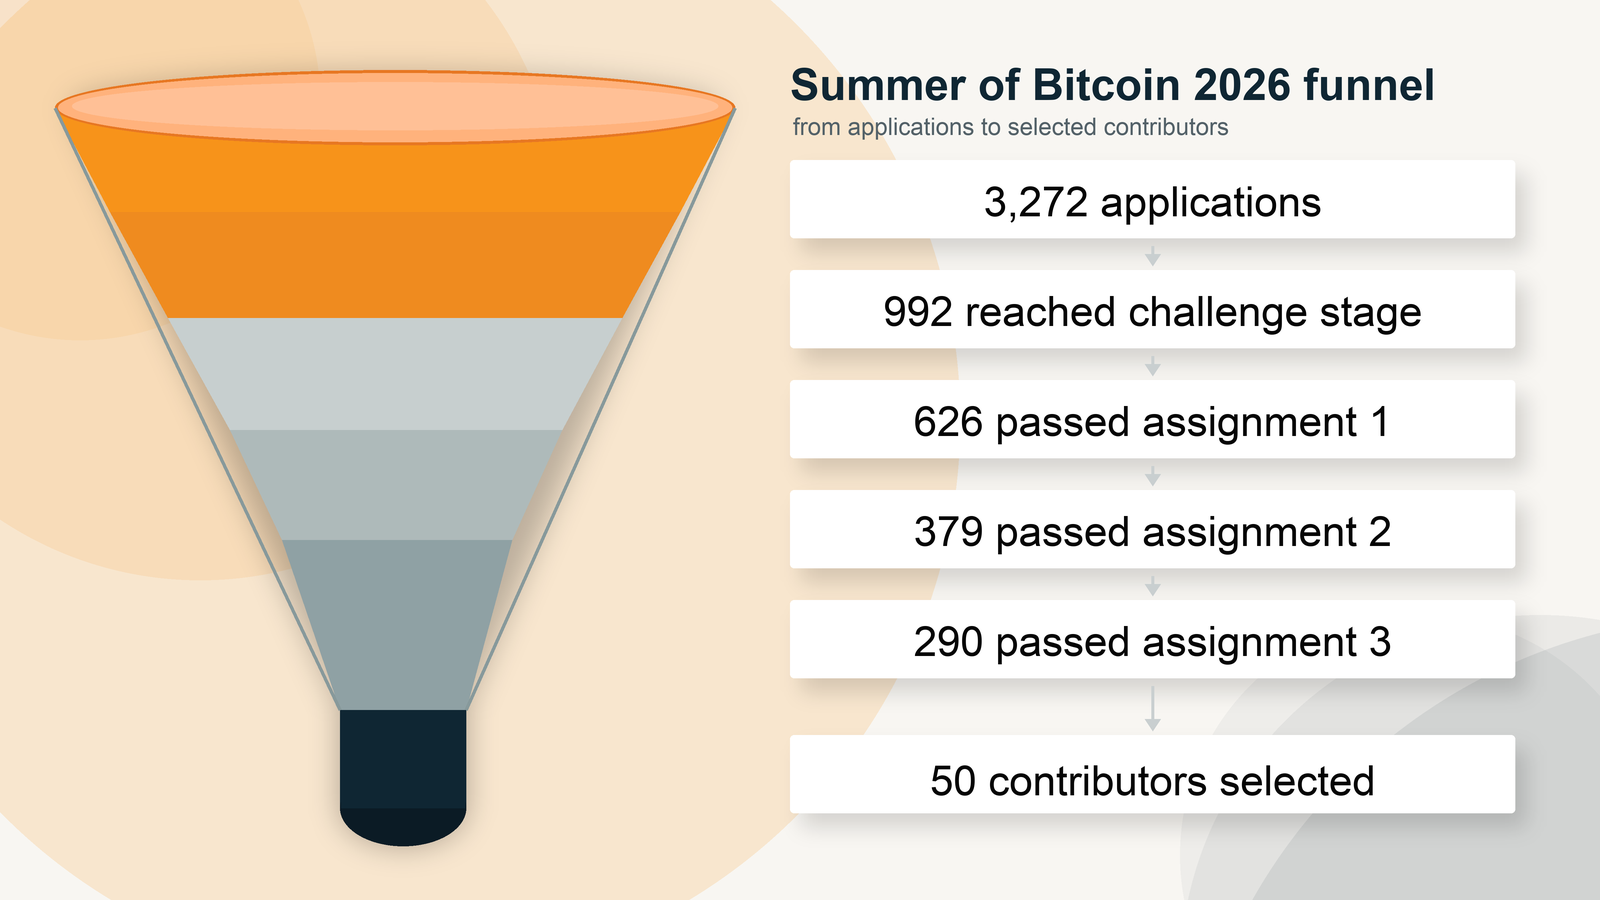
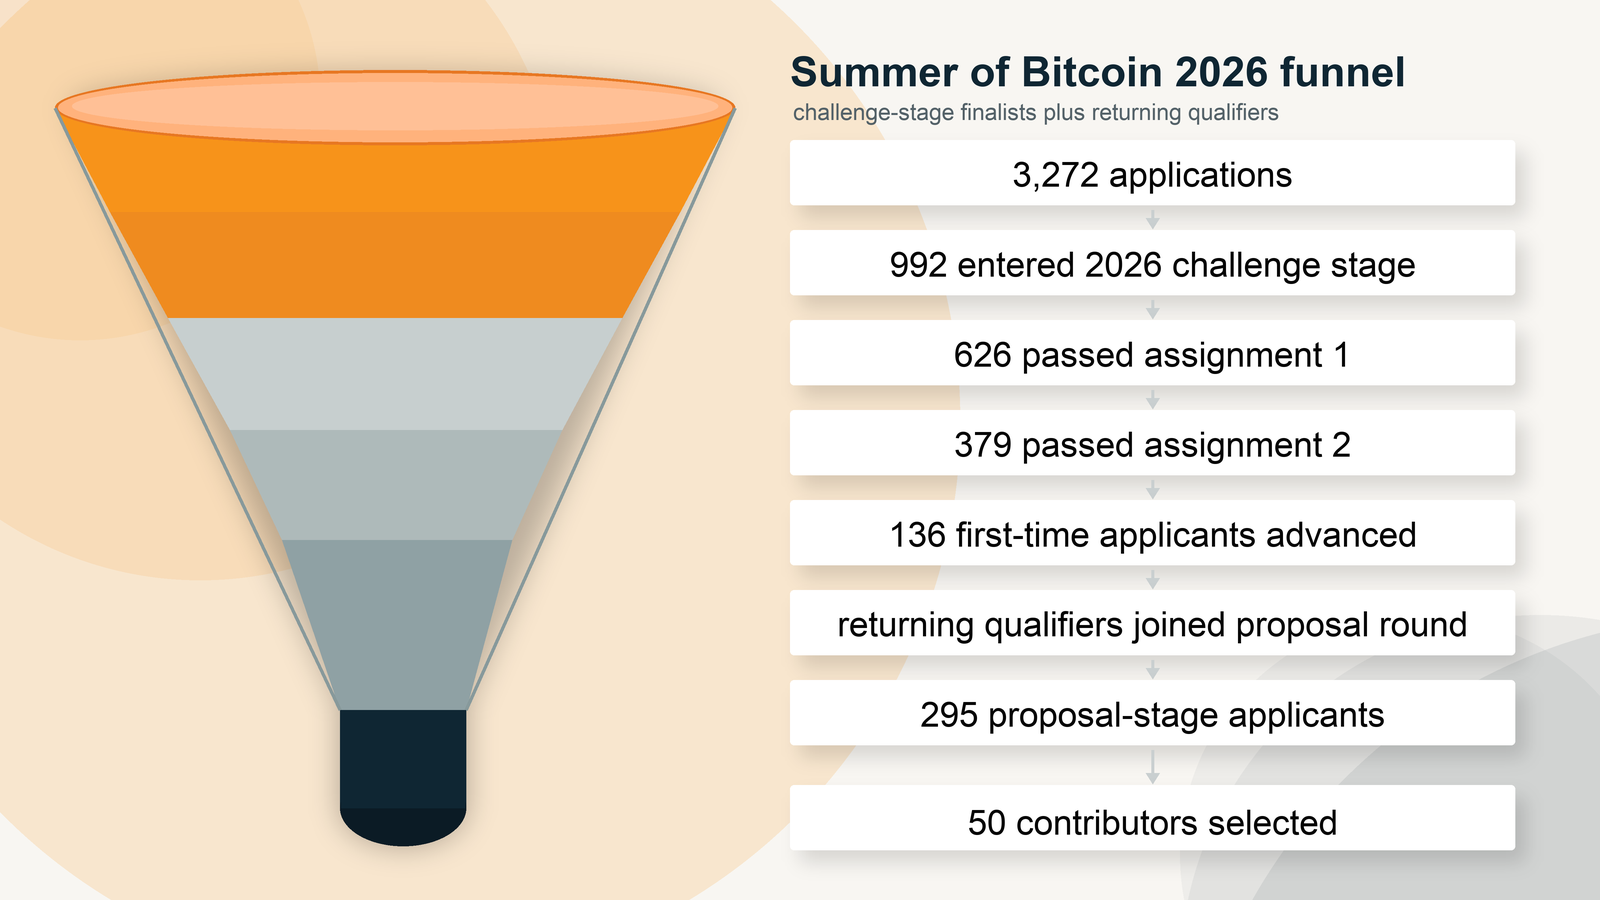
Refine proposal funnel summary

Changed region(s): [[0.4688, 0.0622, 0.9688, 0.9644]]

diff --git a/_posts/2026-06-02-summer-of-bitcoin-2026-announcing-the-next-generation-of-bitcoin-builders.md b/_posts/2026-06-02-summer-of-bitcoin-2026-announcing-the-next-generation-of-bitcoin-builders.md
@@ -25,14 +25,18 @@ For design applicants, the challenge round moved from first-time bitcoin wallet 
 
 These were not toy problems. Some of the best submissions were technically rigorous and creative enough to be useful to non-technical users on day one. As one example from the chain-analysis challenge, a student from India built and demoed a polished visual analysis tool: [watch the walkthrough](https://www.youtube.com/watch?v=OcI5FrvTMRY).
 
+One important nuance: the proposal round was broader than the assignment funnel alone. Returning applicants who had already qualified for the proposal round in previous years were eligible to submit proposals without repeating the challenge stage. The current proposal pool combined 136 first-time applicants who advanced through this year's challenge round, 154 returning applicants who were already eligible from prior years, and a small number of additional eligible applicants.
+
 Here is what the funnel looked like:
 
 *   3,272 applicants from 51 countries and 1,813 universities
 *   992 students reached the screening and challenge stage
 *   626 students passed assignment 1
 *   379 students passed assignment 2
-*   290 students passed assignment 3
-*   294 applicants reached the proposal stage, with 379 proposal records reviewed
+*   136 first-time applicants advanced from this year's final challenge stage
+*   154 returning applicants were already eligible for the proposal round from prior years
+*   A small number of additional eligible applicants completed the proposal pool
+*   295 applicants reached the proposal stage, with 379 proposal records reviewed
 *   50 student contributors selected across 26 open-source bitcoin organizations
 *   44 developer placements and 6 designer placements
 
@@ -41,38 +45,9 @@ Here is what the funnel looked like:
 <figcaption>Summer of Bitcoin 2026 narrowed 3,272 applications into 50 selected contributors through a multi-week challenge and proposal process</figcaption>
 </figure>
 
-The selected cohort represents 7 countries: India (42), Spain (2), the United States (2), Australia (1), Costa Rica (1), Germany (1), and Nigeria (1). Contributors will work on bitcoin protocol infrastructure, wallets, developer tooling, privacy, testing, mining, bitcoin applications, and design projects. This year's project ideas were scoped with mentors for a 12-week full-time summer window, so students can move from onboarding to meaningful public work in code, design, research, and documentation.
+The selected cohort represents 7 countries: Australia, Costa Rica, Germany, India, Nigeria, Spain, and the United States. Contributors will work on bitcoin protocol infrastructure, wallets, developer tooling, privacy, testing, mining, bitcoin applications, and design projects. This year's project ideas were scoped with mentors for a 12-week full-time summer window, so students can move from onboarding to meaningful public work in code, design, research, and documentation.
 
-This year's participating organizations and selected contributors are:
-
-| Organization | Selected contributors |
-|---|---|
-| asmap | Joris Strakeljahn |
-| BDK | Domènec Madrid, Rishit Modi |
-| Bitcoin Core | Biel Castellarnau |
-| Bitcoin Design | Aditya Sarna |
-| Bitcoin-Fuzz | Suryansh Singh |
-| Braidpool | Kushagra Kinra, Parth, Priya Rani, Rasesh Shetty |
-| Coinswap | Tanishka Nibariya, Yogansh Sharma |
-| ContextVM | Abhay, Harsh Kumar Chandwani, Khushvendra Singh |
-| Cove | Sandip |
-| Demand | Frieda Odagboyi, Jyotiraditya Panda |
-| Fedimint | Om Swami |
-| Floresta | Ved Patel |
-| Flotilla | Aditya Chaudhary, Saksham Jain |
-| Formstr | Manas Dash, Naman Khandelwal |
-| Jam | Kishore B, Parth Bandwal |
-| Kern | Subinita Ray |
-| Krux | Naman Gupta, Tanveer Ansari |
-| Mostro | Brian |
-| Nostr Components | Alok Dangre |
-| Nostream | Anshuman Singh, Saniddhya Dubey |
-| SeedSigner | Akhil Dhyani, Chaitanya Keyal, Kshitij Dhamanikar, Mayank Yadav |
-| Shopstr | Arman Thakur, Arnav Kirti, Aryan Jain, Ashutosh Rana, Ayush Srivastava |
-| smite | Ashish Kumar Dash, Chandra Pratap |
-| Stable Channels | Anurag Thakur, Biresh Biswas, Prabal Patra |
-| strfry | Anurag Mishra, Shivansh Jain |
-| VLS | Vatsal Keshav |
+This year's participating organizations are: asmap, BDK, Bitcoin Core, Bitcoin Design, Bitcoin-Fuzz, Braidpool, Coinswap, ContextVM, Cove, Demand, Fedimint, Floresta, Flotilla, Formstr, Jam, Kern, Krux, Mostro, Nostr Components, Nostream, SeedSigner, Shopstr, smite, Stable Channels, strfry, and VLS.
 
 All student contributors have been paired with mentors and began the project period on May 18. Over the first few weeks, students are getting set up in project repositories and communities, confirming milestones with mentors, and beginning early implementation or design discovery. The project period continues through August 16, with mid-term evaluations scheduled for June 29 to July 3.
 